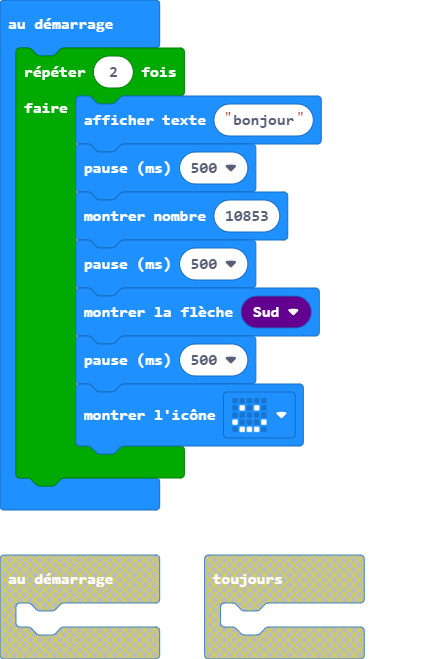
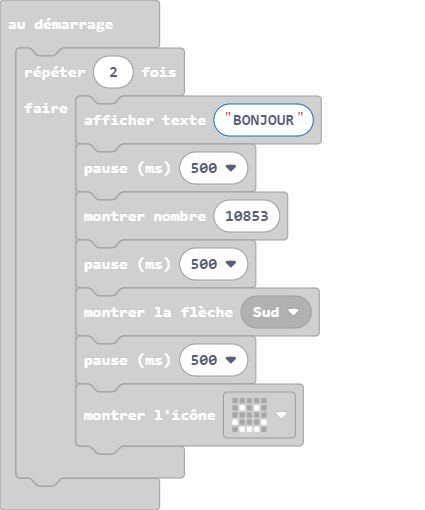
Mise à jour main.blocks, main.ts

diff --git a/main.ts b/main.ts
@@ -1,5 +1,5 @@
 for (let index = 0; index < 2; index++) {
-    basic.showString("bonjour")
+    basic.showString("BONJOUR")
     basic.pause(500)
     basic.showNumber(10853)
     basic.pause(500)
